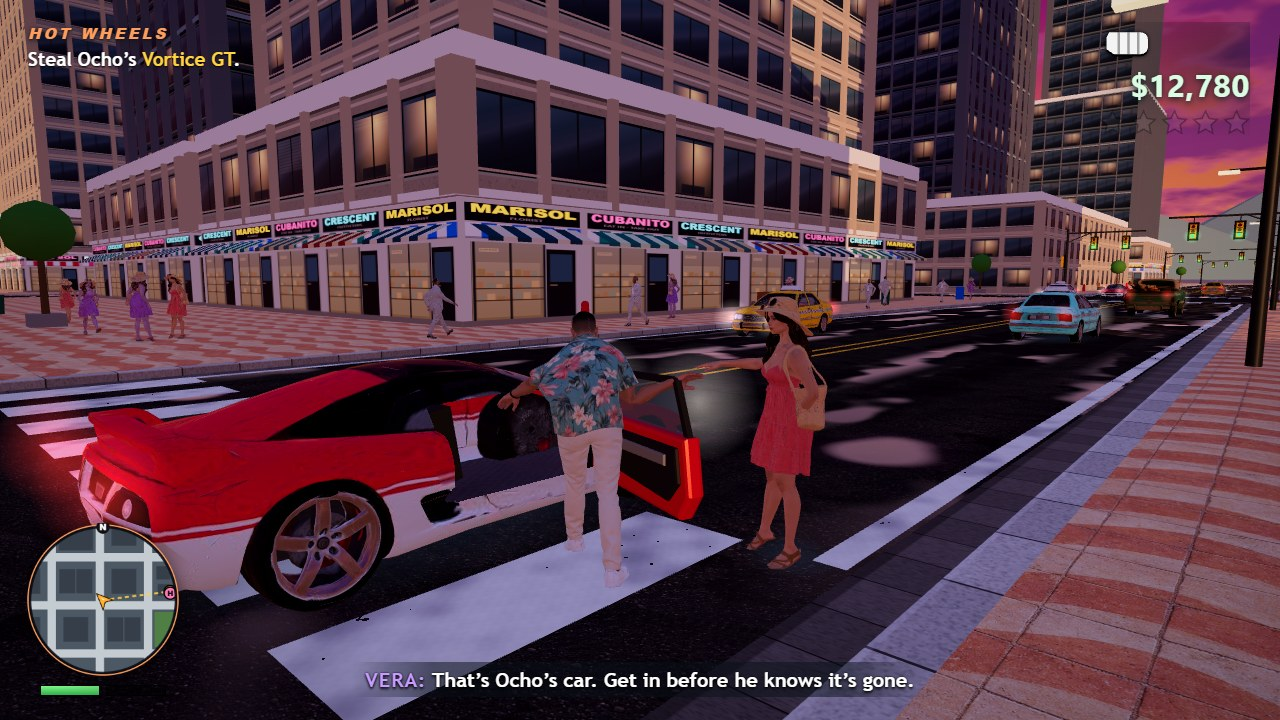
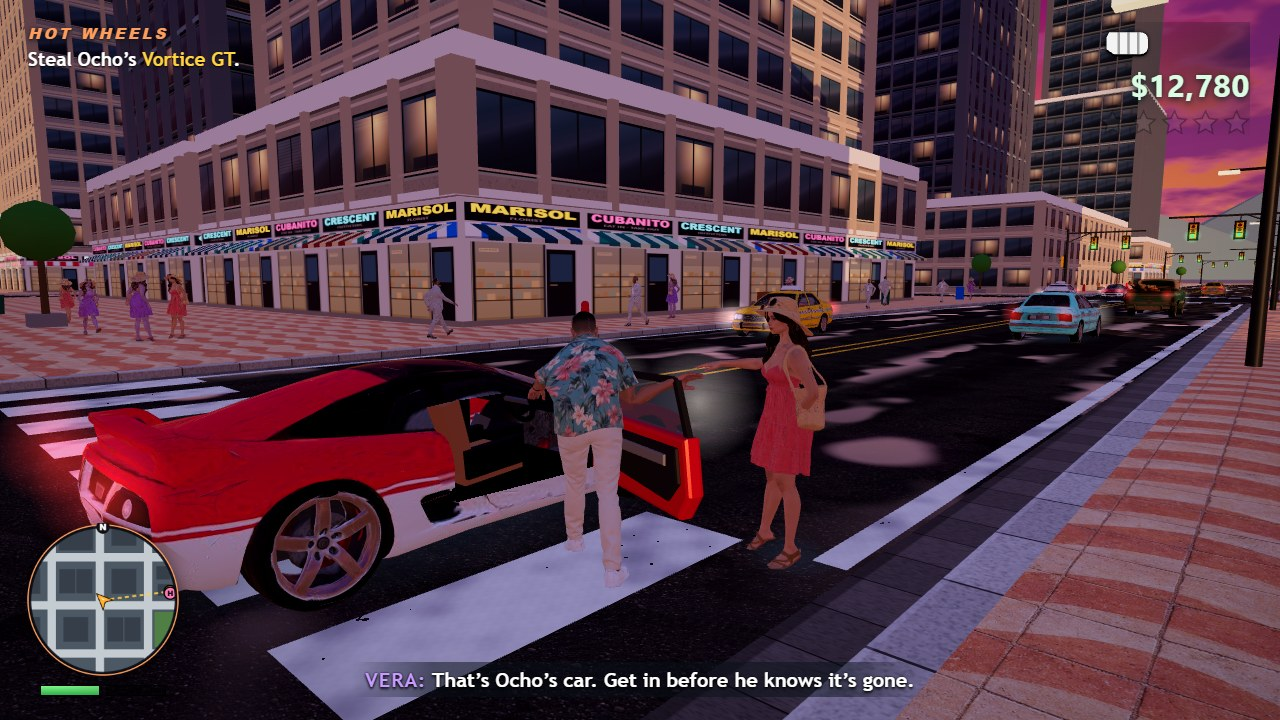
Furnish the stolen Vortice's open cabin
The open driver door now shows a carpeted tub, tan bucket seats with
bolsters and headrests, a steering wheel on its column, a dash with a
lit cluster and a centre console, and the player's hand rests on the
wheel as he climbs in.

Changed region(s): [[0.3125, 0.4889, 0.4688, 0.7028]]

diff --git a/game/src/shot-art.js b/game/src/shot-art.js
@@ -317,10 +317,32 @@ export function openDriverDoor(game, car) {
   car.shell.material = car.shell.material.clone();
   car.shell.material.clippingPlanes = cut;
   car.shell.material.clipIntersection = true;
-  const seat = new THREE.Mesh(new THREE.BoxGeometry(0.45, 0.52, 0.15), trim);
-  seat.position.set(-0.38, 0.73, -0.41);
-  seat.rotation.x = -0.16;
-  car.body.add(seat);
+  // The cabin the open door reveals: carpeted tub, bucket seats, wheel, dash and console.
+  const leather = new THREE.MeshStandardMaterial({ color: 0xb07a52, roughness: 0.55 });
+  const carpet = new THREE.MeshStandardMaterial({ color: 0x1a1618, roughness: 0.95 });
+  const part = (geo, material, x, y, z, rx = 0, ry = 0, rz = 0) => {
+    const mesh = new THREE.Mesh(geo, material);
+    mesh.position.set(x, y, z);
+    mesh.rotation.set(rx, ry, rz);
+    mesh.castShadow = mesh.receiveShadow = true;
+    car.body.add(mesh);
+    return mesh;
+  };
+  part(new THREE.BoxGeometry(1.62, 0.05, 1.5), carpet, 0, 0.4, 0.05);
+  part(new THREE.BoxGeometry(0.04, 0.42, 1.3), trim, 0.78, 0.66, 0.05);
+  for (const x of [-0.38, 0.38]) {
+    part(new THREE.BoxGeometry(0.5, 0.14, 0.5), leather, x, 0.52, -0.05, -0.08);
+    part(new THREE.BoxGeometry(0.5, 0.5, 0.13), leather, x, 0.78, -0.33, -0.24);
+    part(new THREE.BoxGeometry(0.26, 0.13, 0.09), leather, x, 1.06, -0.41, -0.24);
+    for (const side of [-1, 1]) part(new THREE.BoxGeometry(0.07, 0.2, 0.5), trim, x + side * 0.25, 0.6, -0.05, -0.08);
+  }
+  part(new THREE.BoxGeometry(1.6, 0.2, 0.42), trim, 0, 0.9, 0.66, 0.25);
+  part(new THREE.BoxGeometry(0.22, 0.24, 0.9), trim, 0, 0.53, 0.18);
+  part(new THREE.BoxGeometry(0.06, 0.12, 0.12), satin, 0, 0.7, 0.28, 0.5);
+  part(new THREE.TorusGeometry(0.17, 0.022, 8, 24), trim, -0.38, 0.92, 0.36, -0.35);
+  part(new THREE.BoxGeometry(0.3, 0.03, 0.03), satin, -0.38, 0.92, 0.36, -0.35);
+  part(new THREE.CylinderGeometry(0.03, 0.035, 0.3, 8), trim, -0.38, 0.86, 0.48, Math.PI / 2 - 0.35);
+  part(new THREE.BoxGeometry(0.34, 0.1, 0.02), new THREE.MeshBasicMaterial({ color: 0x3fd7f0 }), -0.38, 0.99, 0.56, -0.4);
   return hinge;
 }
 

diff --git a/game/src/shots.js b/game/src/shots.js
@@ -88,9 +88,9 @@ const SCENES = {
     p.body.root.position.copy(p.position);
     p.body.root.rotation.y = p.heading;
     car.root.updateMatrixWorld(true);
-    // one hand on the top of the open door, the other reaching for the wheel, leaning in to drop into the seat
+    // one hand on the top of the open door, the other on the wheel, leaning in to drop into the seat
     const V = game.THREE.Vector3;
-    boardCar(p.body, door.localToWorld(new V(0.02, 1.2, -1.1)), new V(44.3, 1.0, -129.0));
+    boardCar(p.body, door.localToWorld(new V(0.02, 1.2, -1.1)), car.body.localToWorld(new V(-0.52, 0.95, 0.33)));
     const veraLook = { ...randomLook(), skirt: true, authoredPalette: true, skin: 0xd9a07a, shirt: 0xd98270, pants: 0xd98270, print: false };
     const vera = new Actor(game, 'civilian', 46.0, -130.02, veraLook);
     vera.position.y = 0.02;
